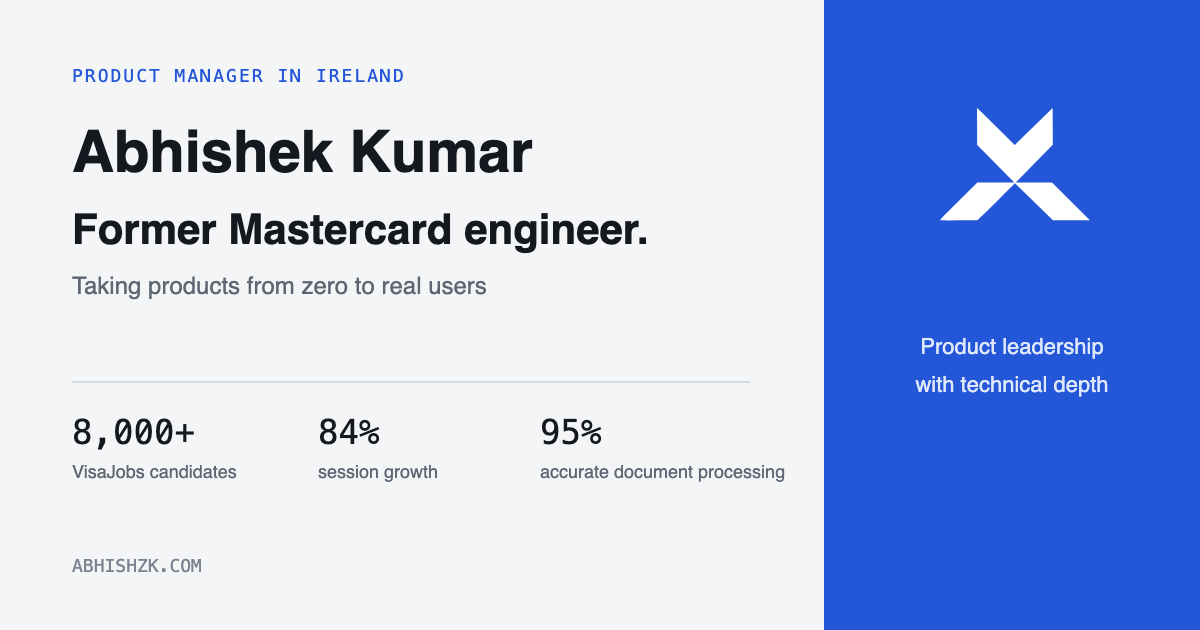
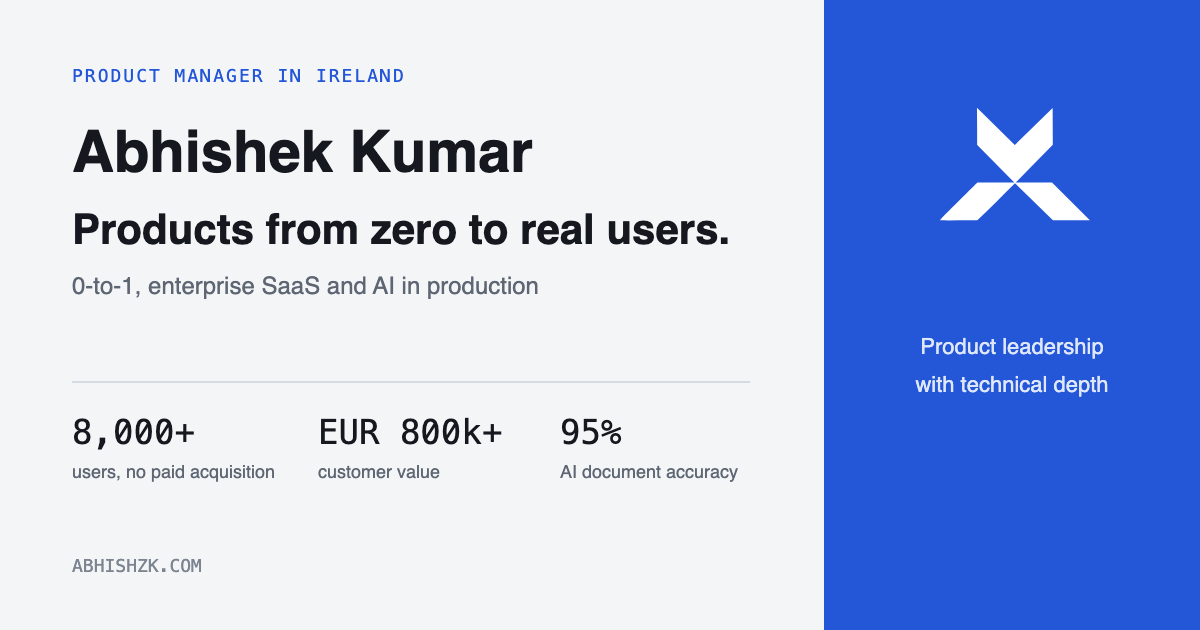
feat: replace Mastercard positioning with traction proof, add GitHub footer
Lead with 8,000+ users / zero paid acquisition / EUR 800k+ customer value
instead of former employer. Restore GitHub link in footer only.

diff --git a/src/routes/+page.svelte b/src/routes/+page.svelte
@@ -13,7 +13,7 @@
 	import { homeMetrics } from '$lib/data/portfolio';
 
 	const title = 'Abhishek Kumar | Product Manager in Ireland (abhishzk)';
-	const description = `Abhishek Kumar (abhishzk) is a Product Manager in Dublin, Ireland. Former Mastercard engineer who grew VisaJobs to ${homeMetrics[0].value} candidates. See the case studies.`;
+	const description = `Abhishek Kumar (abhishzk) is a Product Manager in Dublin, Ireland. Grew VisaJobs to ${homeMetrics[0].value} users with zero paid acquisition. See the case studies.`;
 	const structuredData = {
 		'@context': 'https://schema.org',
 		'@graph': [
@@ -33,7 +33,7 @@
 				url: 'https://abhishzk.com',
 				image: 'https://abhishzk.com/images/headshot.webp',
 				jobTitle: 'Product Manager',
-				description: 'Product Manager in Dublin, Ireland. Former Mastercard software engineer.',
+				description: 'Product Manager in Dublin, Ireland. 0-to-1, enterprise SaaS and AI in production.',
 				address: {
 					'@type': 'PostalAddress',
 					addressLocality: 'Dublin',

diff --git a/src/lib/components/Hero.svelte b/src/lib/components/Hero.svelte
@@ -27,14 +27,13 @@
 			<h1>
 				<span>Product Manager</span>
 				<span
-					>in Ireland. Former Mastercard engineer who takes products from zero to real users.</span
+					>in Ireland. 8,000+ users, zero paid acquisition, 2 engineers.</span
 				>
 			</h1>
 			<p>
-				I'm Abhishek Kumar (abhishzk), based in Dublin. I grew VisaJobs Ireland from zero to
-				{homeMetrics[0].value} candidates with no paid acquisition, lifted sessions on an enterprise energy
-				platform by
-				{homeMetrics[1].value}, and shipped AI document processing at {homeMetrics[2].value} accuracy.
+				I'm Abhishek Kumar (abhishzk), based in Dublin. I own products end to end, from
+				discovery to adoption. At Watt Footprint I helped deliver EUR 800k to 1M+ in customer value
+				across 13 enterprise accounts. I ship AI into production, and I pull it when it doesn't work.
 			</p>
 			<div class="hero-actions">
 				<a

diff --git a/src/lib/data/portfolio.ts b/src/lib/data/portfolio.ts
@@ -18,6 +18,11 @@ export const externalLinks = {
 		href: 'https://www.linkedin.com/in/abhishzk/',
 		event: 'linkedin_click'
 	},
+	github: {
+		label: 'GitHub',
+		href: 'https://github.com/abhishzk',
+		event: 'github_click'
+	},
 	resume: {
 		label: 'Resume',
 		href: '/Abhishek_Kumar_Resume.pdf',
@@ -270,7 +275,7 @@ export const homeMetrics: CaseStudyMetric[] = [
 	{ value: '8,000+', label: 'VisaJobs candidates' },
 	{ value: '84%', label: 'platform session growth' },
 	{ value: '95%', label: 'accurate document processing' },
-	{ value: '28+', label: 'AI product integrations' }
+	{ value: 'EUR 800k to 1M+', label: 'delivered customer value' }
 ];
 
 export const capabilities: Capability[] = [

diff --git a/src/lib/analytics.ts b/src/lib/analytics.ts
@@ -2,7 +2,7 @@ import { browser } from '$app/environment';
 import { init, track } from '@plausible-analytics/tracker';
 
 export type AnalyticsEvent =
-	'contact_click' | 'resume_download' | 'case_study_open' | 'linkedin_click' | 'product_visit';
+	'contact_click' | 'resume_download' | 'case_study_open' | 'linkedin_click' | 'github_click' | 'product_visit';
 
 let initialized = false;
 

diff --git a/src/lib/components/Footer.svelte b/src/lib/components/Footer.svelte
@@ -17,6 +17,12 @@
 				on:click={() => trackEvent('linkedin_click', { placement: 'footer' })}>LinkedIn</a
 			>
 			<a
+				href={externalLinks.github.href}
+				target="_blank"
+				rel="noreferrer"
+				on:click={() => trackEvent('github_click', { placement: 'footer' })}>GitHub</a
+			>
+			<a
 				href={externalLinks.resume.href}
 				target="_blank"
 				rel="noreferrer"

diff --git a/src/lib/types.ts b/src/lib/types.ts
@@ -66,5 +66,5 @@ export interface Credential {
 export interface ExternalLink {
 	label: string;
 	href: string;
-	event: 'contact_click' | 'resume_download' | 'linkedin_click' | 'product_visit';
+	event: 'contact_click' | 'resume_download' | 'linkedin_click' | 'github_click' | 'product_visit';
 }
